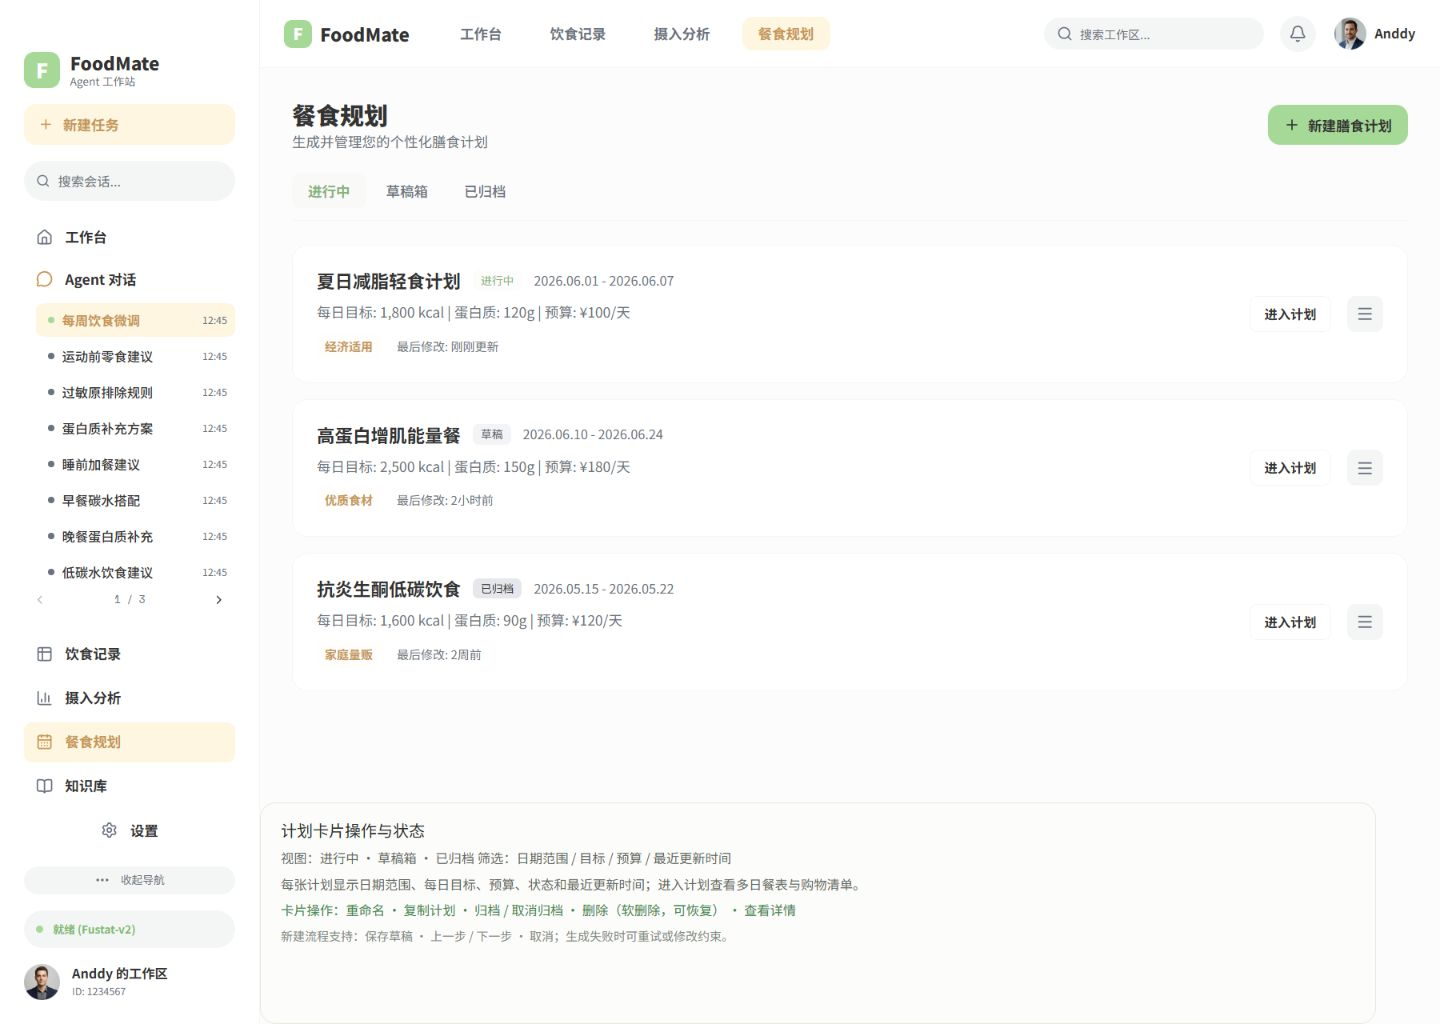
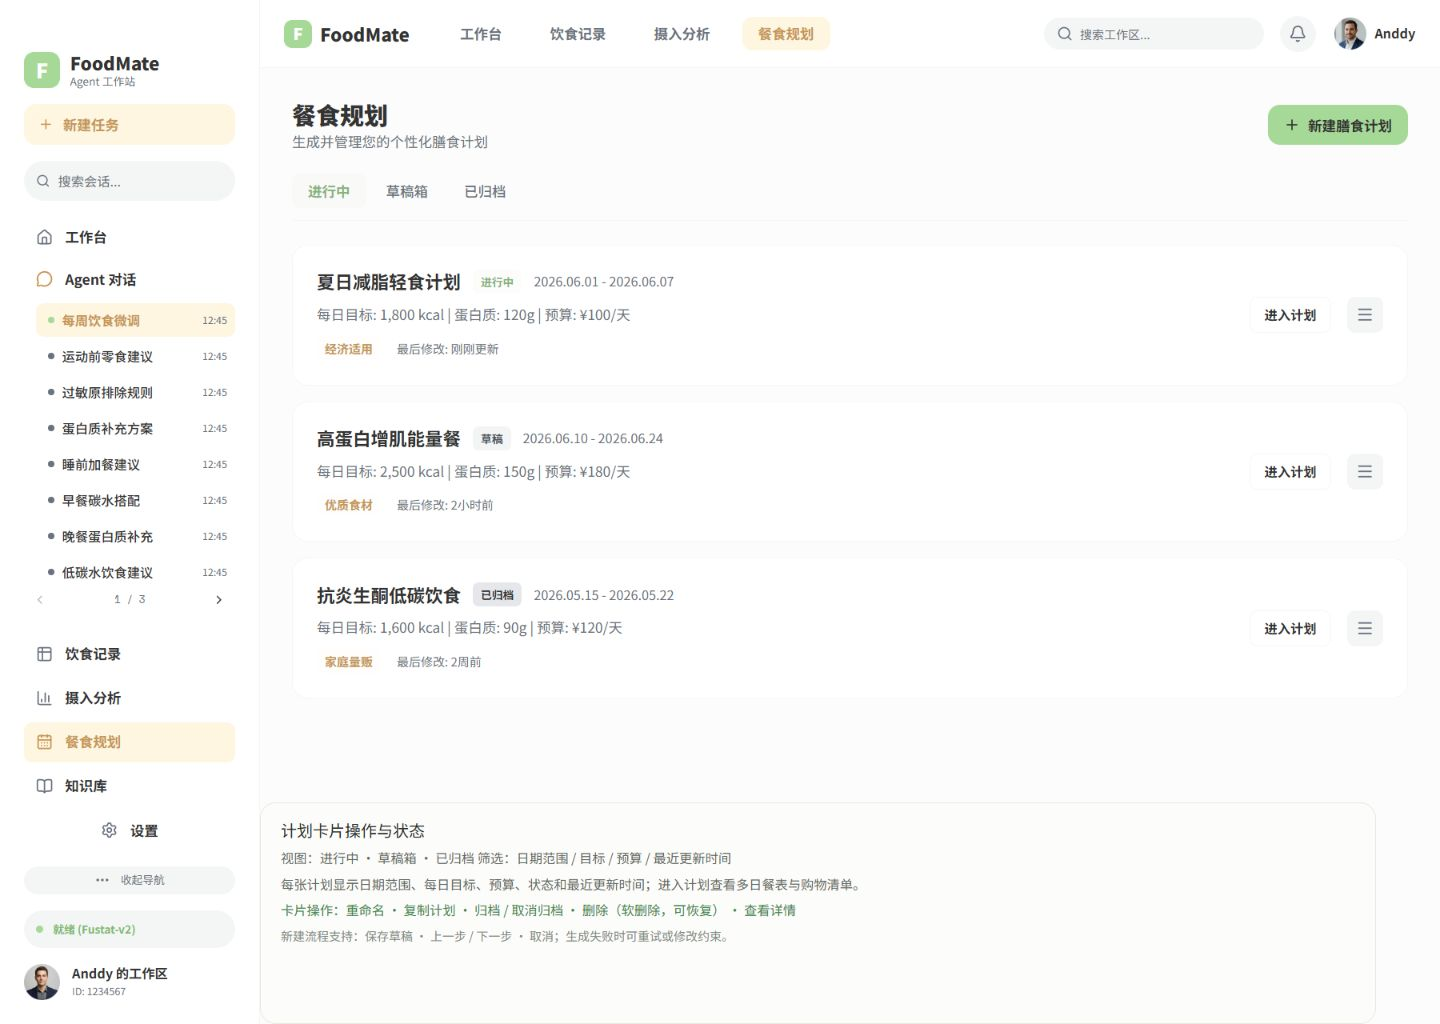
fix(餐食规划): 对齐状态徽章文字

diff --git a/foodmate-ui/src/pages/PlanningPage/MealPlanningFlow.module.css b/foodmate-ui/src/pages/PlanningPage/MealPlanningFlow.module.css
@@ -195,6 +195,11 @@
   white-space: nowrap;
 }
 
+.planStatus {
+  font-weight: 700;
+  line-height: normal;
+}
+
 .planStatusactive {
   background: rgba(223, 238, 219, 0.1);
   color: #89b27c;

diff --git a/docxs/功能实现说明/Figma前端像素级验收报告.md b/docxs/功能实现说明/Figma前端像素级验收报告.md
@@ -673,3 +673,10 @@ Figma Design 页共有 105 张顶层画板。本轮已为 105 张画板建立独
 - [x] 浏览器实测面板外框仍为 `x=260,y=802,width=1116,height=222`，五个文字行保持顶部堆叠和 `8px` 间距；视口 `1440×1024`、字体 `loaded`、无横向溢出。
 - [x] 最新 PNG diff：`differentPixels=384960`、差异比例 `26.1068%`、`MAE=3.8953`、`RMSE=19.4073`、最大通道差异 `234`。
 - [ ] 该画板继续保持 `DIFF_REVIEW`；本项只完成说明面板字体和行盒对齐，不代表整页像素级 `PASS`。
+
+## 75. 2026-08-23 餐食规划列表状态徽章文字复核
+
+- [x] 依据 Figma 节点 `692:2753`、`692:2770`、`692:2787`，将三个状态徽章文字设为 `11px`、`font-weight=700`、`line-height=normal`；背景色和语义颜色保持进行中/草稿/已归档的独立值。
+- [x] 浏览器实测三个状态徽章均为 `24px` 高、`11px` 粗体，页面视口 `1440×1024`、字体 `loaded`、无横向溢出。
+- [x] 最新 PNG diff：`differentPixels=412502`、差异比例 `27.9746%`、`MAE=4.0662`、`RMSE=19.9112`、最大通道差异 `236`。
+- [ ] 该画板继续保持 `DIFF_REVIEW`；本项按 Figma 文字行盒完成，不代表整页像素级 `PASS`。

diff --git a/docxs/实现/前端实现指南.md b/docxs/实现/前端实现指南.md
@@ -1099,3 +1099,10 @@ Agent 空态以 Figma `687:219` 为唯一视觉来源，目标画板为 `1440×1
 - [x] 浏览器验收确认面板几何 `x=260,y=802,width=1116,height=222`、内容 `gap=8px`，视口 `1440×1024`、字体已加载、无横向溢出。
 - [x] 最新 PNG diff 为 `26.1068% / MAE 3.8953 / RMSE 19.4073`，结果写入 `meal-plan-list-current-diff.json`。
 - [ ] 本项仍是局部 Figma 文本排版修正，整页继续 `DIFF_REVIEW`；iconfont 仍为 `BLOCKED`。
+
+## 63. 2026-08-23 餐食规划列表状态徽章文字对齐
+
+- [x] 依据 Figma 节点 `692:2753`、`692:2770`、`692:2787`，将进行中、草稿、已归档徽章文字设为 `11px` 粗体和 `line-height: normal`，保留各自背景与语义颜色。
+- [x] 浏览器验收确认三个徽章高度均为 `24px`，视口 `1440×1024`、字体已加载、无横向溢出。
+- [x] 最新 PNG diff 为 `27.9746% / MAE 4.0662 / RMSE 19.9112`，结果写入 `meal-plan-list-current-diff.json`。
+- [ ] 本项只完成状态徽章文字样式，整页继续 `DIFF_REVIEW`；iconfont 仍为 `BLOCKED`。
